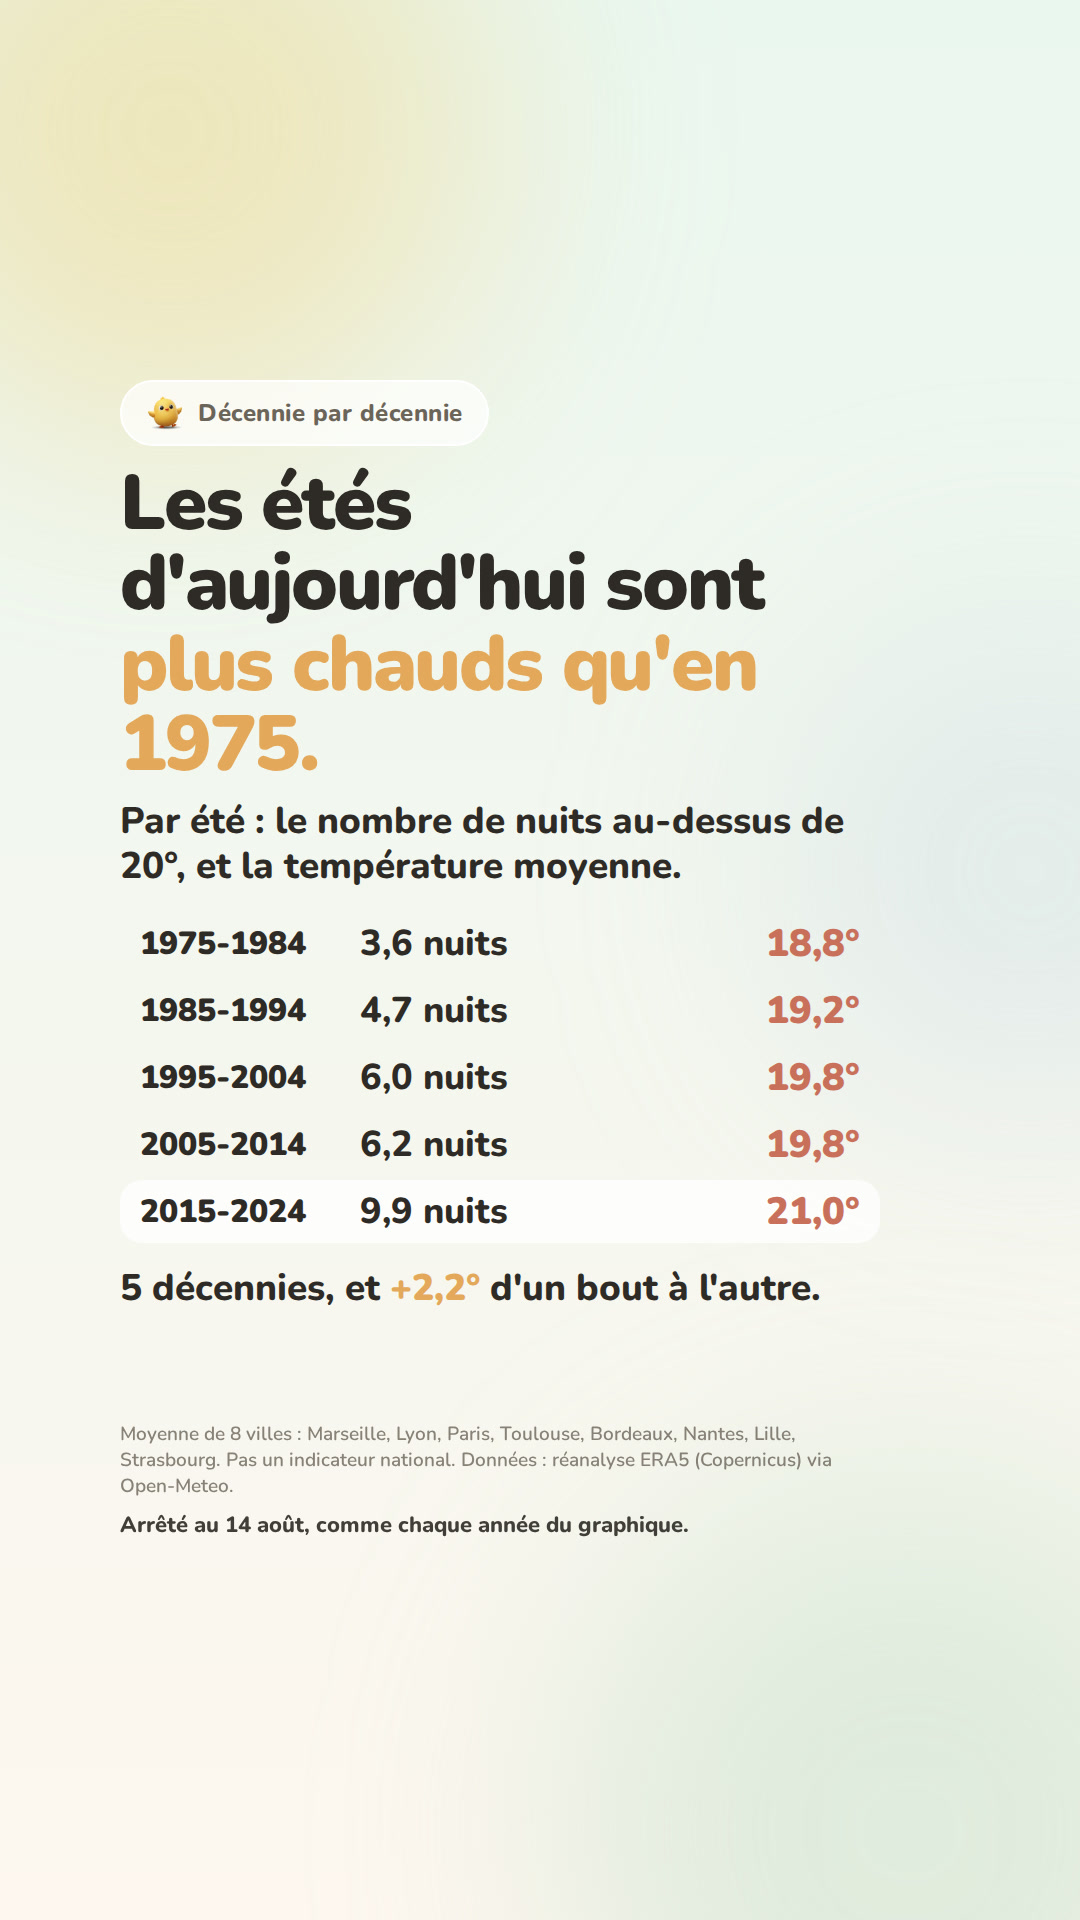
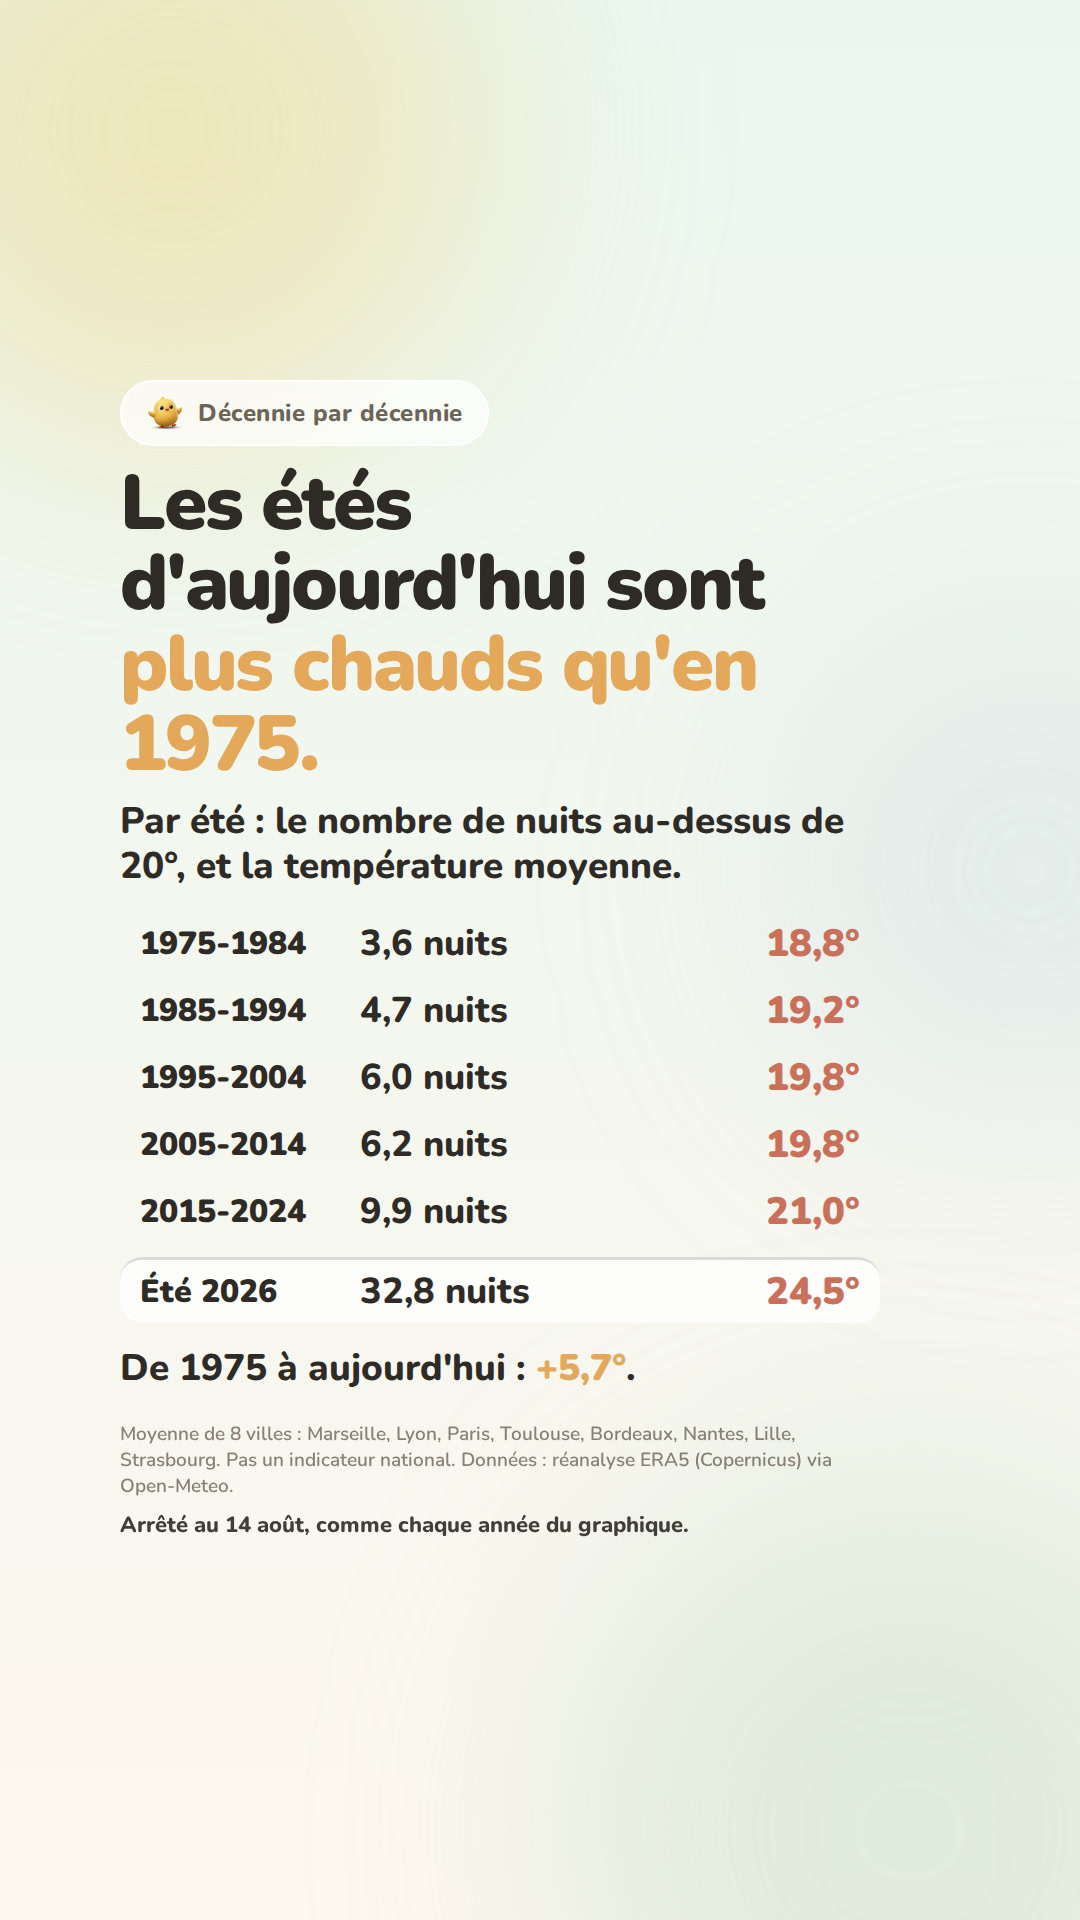
Visuels du 2026-08-14 (1-bilan)

Changed region(s): [[0.0917, 0.6562, 0.7944, 0.7188]]

diff --git a/daily/2026-08-14/index.html b/daily/2026-08-14/index.html
@@ -69,12 +69,12 @@
         <button class="zip">Télécharger le .zip</button>
       </div>
       <details>
-        <summary>La légende (690 caractères)</summary>
-        <pre class="caption">Les étés de 1975-1984 étaient plus frais de 2,2° que ceux d'aujourd'hui.
+        <summary>La légende (783 caractères)</summary>
+        <pre class="caption">L'été 2026 est plus chaud de 5,7° que les étés de 1975-1984.
 
 Arrêté au 14 août, comme toutes les années comparées.
 
-5 décennies, les mêmes villes, les mêmes jours de l'année. Entre 1975-1984 et 2015-2024, la température moyenne de l'été a pris 2,2°, et le nombre de nuits au-dessus de 20 degrés est passé de 4 à 10 par été. Seule l'époque change.
+5 décennies, les mêmes villes, les mêmes jours de l'année. D'une décennie à l'autre, la température moyenne de l'été a pris 2,2° entre 1975-1984 et 2015-2024 — c'est la tendance de fond, celle qui ne dépend d'aucune année extrême. L'été 2026, lui, en est à 24,5° et 33 nuits au-dessus de 20 degrés, contre 4 par été entre 1975 et 1984.
 
 Moyenne de Marseille, Lyon, Paris, Toulouse, Bordeaux, Nantes, Lille et Strasbourg — pas un indicateur national. Données : réanalyse ERA5 (Copernicus) via Open-Meteo. Même fenêtre, du 1er juin au 14 août, pour chaque année.
 
